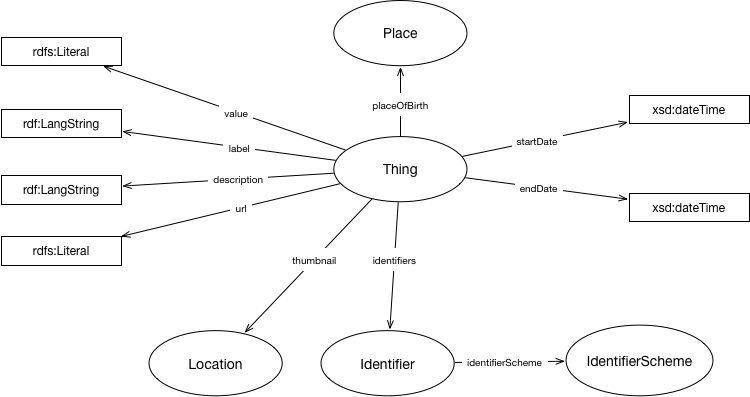
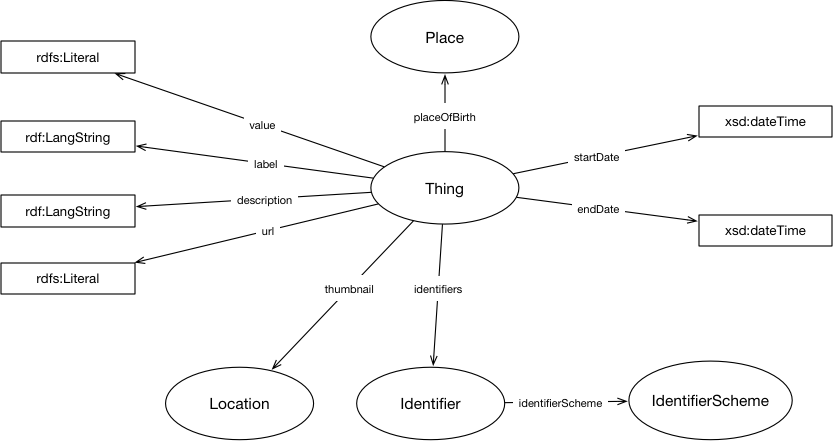
Updated diagrams to be better size and quality

diff --git a/ontologies/Documentation/location-ontology.html b/ontologies/Documentation/location-ontology.html
@@ -18,7 +18,7 @@
     <hr />
     <div id="toc"><h2>Table of Content</h2><ol><li><a href="#classes">Classes</a></li><li><a href="#objectproperties">Object Properties</a></li><li><a href="#dataproperties">Data Properties</a></li><li><a href="#namespacedeclarations">Namespace Declarations</a></li></ol></div>
 
-    <p><img src="https://raw.githubusercontent.com/wellcometrust/platform-api/tree/master/ontologies/Documentation/Location-Ontology.png" width="950" /></p>
+    <p><img src="https://raw.githubusercontent.com/wellcometrust/platform-api/master/ontologies/Documentation/Location-Ontology.png" width="950" /></p>
 
 
 

diff --git a/ontologies/Documentation/works-ontology.html b/ontologies/Documentation/works-ontology.html
@@ -18,7 +18,7 @@
     <hr />
     <div id="toc"><h2>Table of Content</h2><ol><li><a href="#classes">Classes</a></li><li><a href="#objectproperties">Object Properties</a></li><li><a href="#dataproperties">Data Properties</a></li><li><a href="#namespacedeclarations">Namespace Declarations</a></li></ol></div>
 
-    <p><img src="https://raw.githubusercontent.com/wellcometrust/platform-api/tree/master/ontologies/Documentation/Works-Ontology.png" width="950" /></p>
+    <p><img src="https://raw.githubusercontent.com/wellcometrust/platform-api/master/ontologies/Documentation/Works-Ontology.png" width="950" /></p>
 
 
 

diff --git a/ontologies/Documentation/core-ontology.html b/ontologies/Documentation/core-ontology.html
@@ -18,7 +18,7 @@
     <hr />
     <div id="toc"><h2>Table of Content</h2><ol><li><a href="#classes">Classes</a></li><li><a href="#objectproperties">Object Properties</a></li><li><a href="#dataproperties">Data Properties</a></li><li><a href="#namespacedeclarations">Namespace Declarations</a></li></ol></div>
 
-    <p><img src="https://raw.githubusercontent.com/wellcometrust/platform-api/tree/master/ontologies/Documentation/Core-Ontology.png" width="950" /></p>
+    <p><img src="https://raw.githubusercontent.com/wellcometrust/platform-api/master/ontologies/Documentation/Core-Ontology.png" width="950" /></p>
 
 
 
